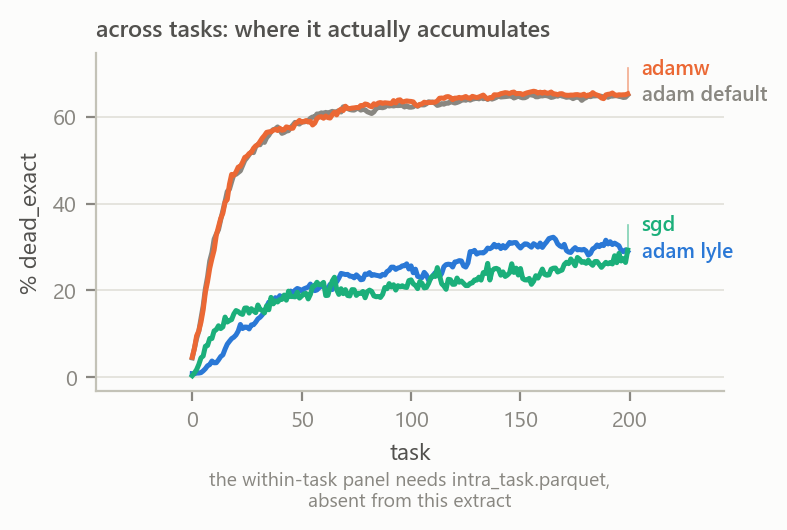
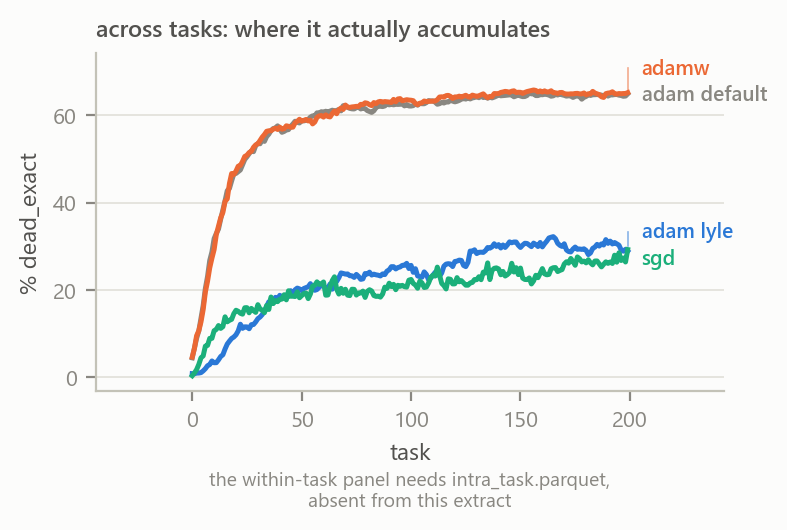
Update figures and enhance labeling in figures.py for better clarity

diff --git a/src/analysis/figures.py b/src/analysis/figures.py
@@ -103,6 +103,10 @@ def _grid(ax, axis: str = "y") -> None:
     ax.set_axisbelow(True)
 
 
+#: How many trailing points a direct label is anchored to; see `_end_labels`.
+_TAIL = 10
+
+
 def _end_labels(ax, entries, min_gap_frac: float = 0.085) -> None:
     """Label series at their right-hand endpoint, nudged apart where they collide.
 
@@ -955,7 +959,8 @@ def fig_c5_optimizers(ex: Extracts, out: Path, lr: Optional[float] = None) -> Op
         if g.empty:
             continue
         ax_task.plot(g.index, g.values, color=colours[arm], lw=1.8)
-        ends.append((arm.replace("_", " "), g.index[-1], g.values[-1], colours[arm]))
+        ends.append((arm.replace("_", " "), g.index[-1],
+                     float(g.values[-_TAIL:].mean()), colours[arm]))
     _end_labels(ax_task, ends)
     ax_task.set_xlabel("task")
     ax_task.set_ylabel("% dead_exact")
